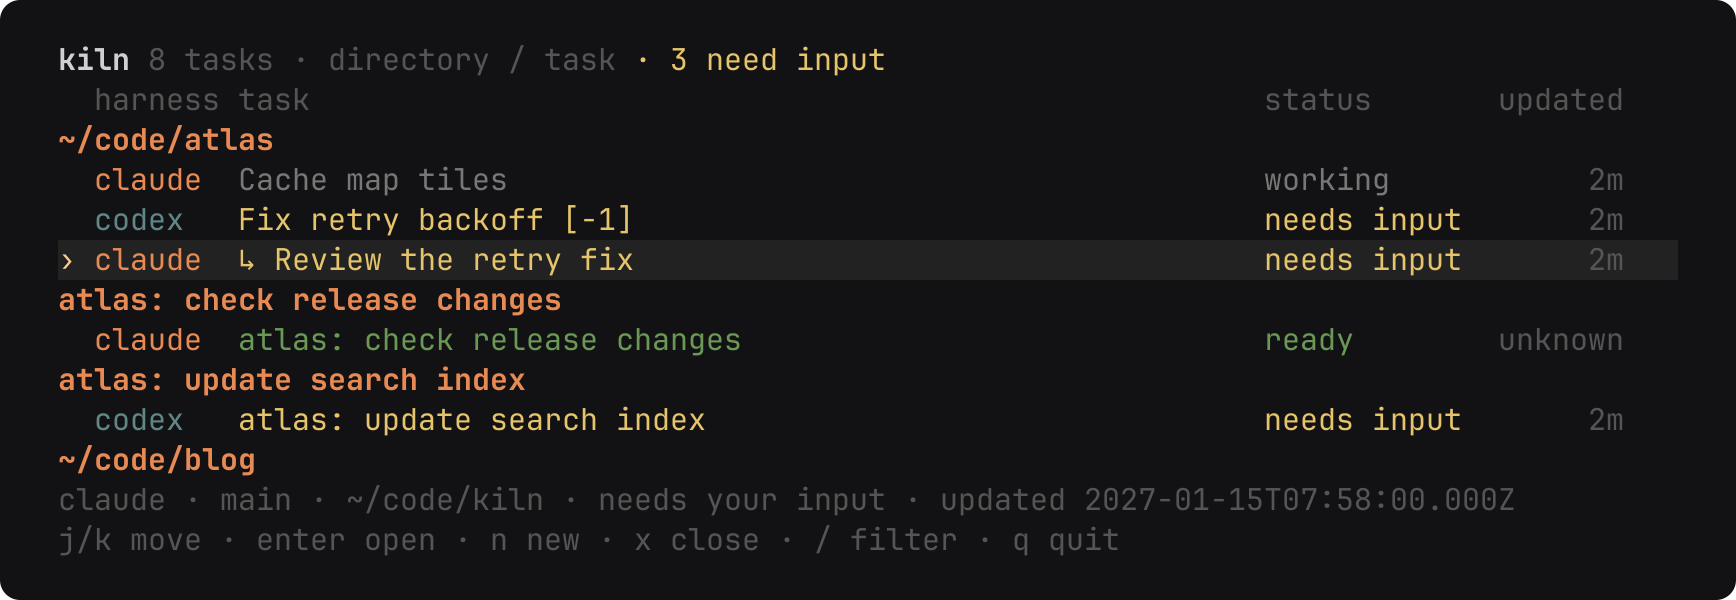
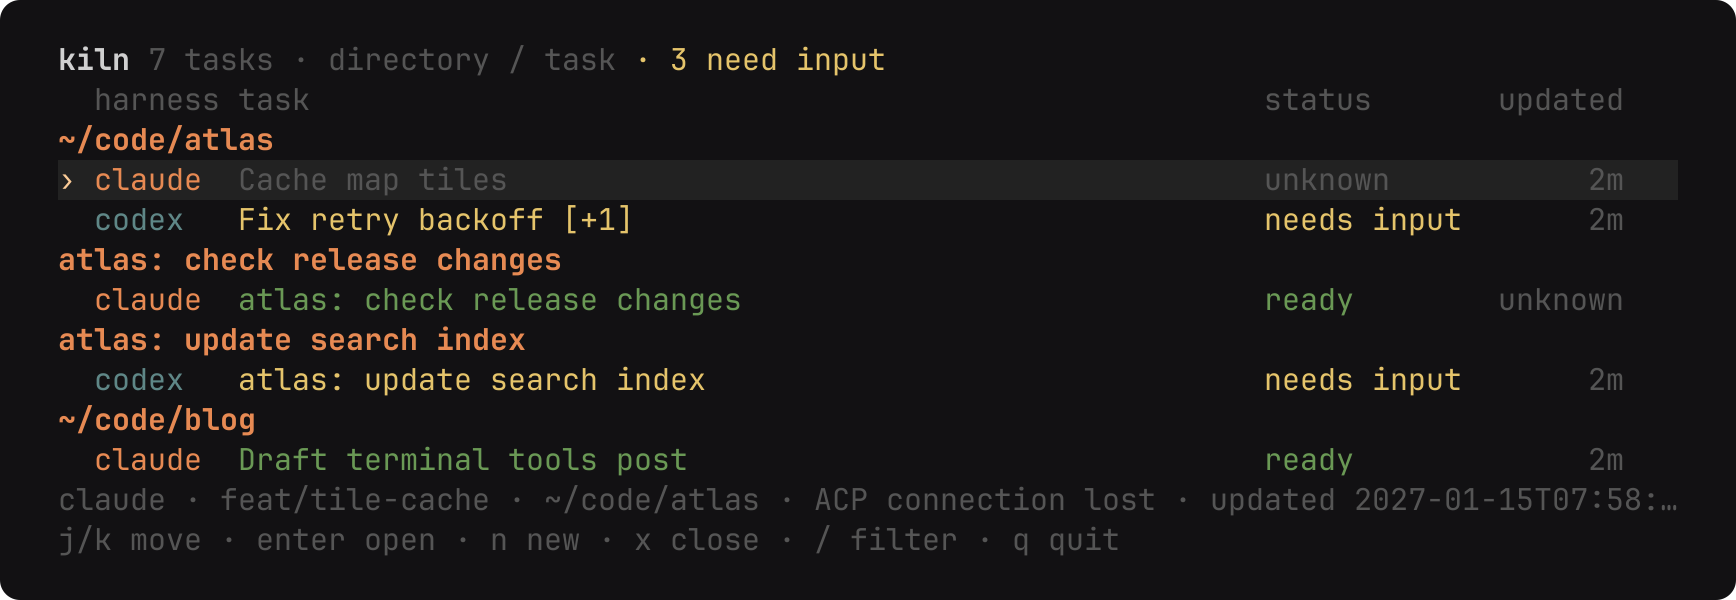
docs: refresh verified ACP terminal and Android screenshots

diff --git a/scripts/screenshots.tsx b/scripts/screenshots.tsx
@@ -165,7 +165,17 @@ async function shoot(name: string, keys: string[]): Promise<void> {
     name === "skills" ? (
       <SkillsView project={code("atlas")} onBack={() => {}} edit={async () => {}} loadSkills={() => demoSkills} />
     ) : (
-      <App initialSettings={defaults} onQuit={() => {}} loadSessions={async () => nestSessions(demo)} />
+      <App
+        initialSettings={defaults}
+        onQuit={() => {}}
+        loadSessions={async () =>
+          nestSessions(
+            name === "unavailable"
+              ? demo.map((session, index) => (index ? session : { ...session, activity: undefined }))
+              : demo,
+          )
+        }
+      />
     ),
     {
       width: cols,
@@ -186,7 +196,7 @@ async function shoot(name: string, keys: string[]): Promise<void> {
 }
 
 await shoot("list", ["j"]);
-await shoot("unavailable", ["j", "TAB", "j"]);
+await shoot("unavailable", []);
 await shoot("archive", ["j", "j", "j", "j", "j", "x"]);
 await shoot("new", ["n", "l"]);
 await shoot("skills", ["p"]);
